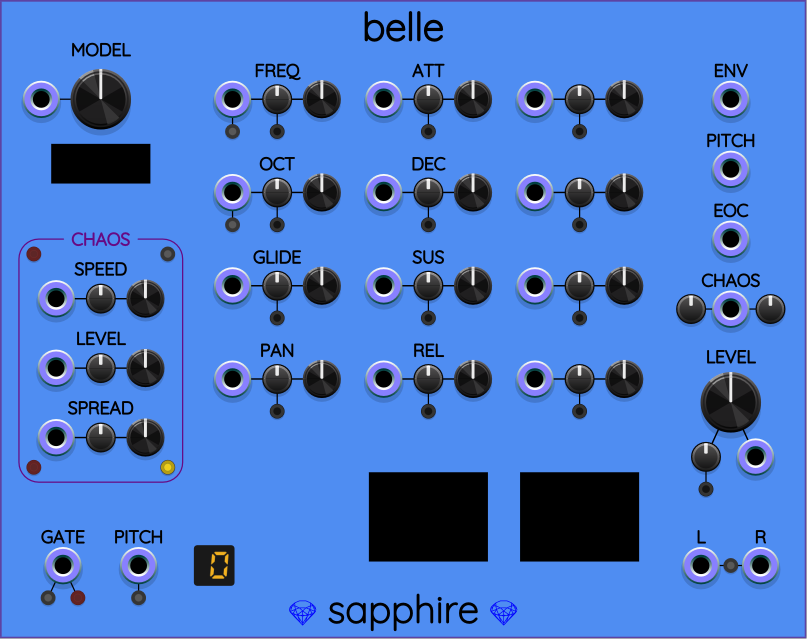
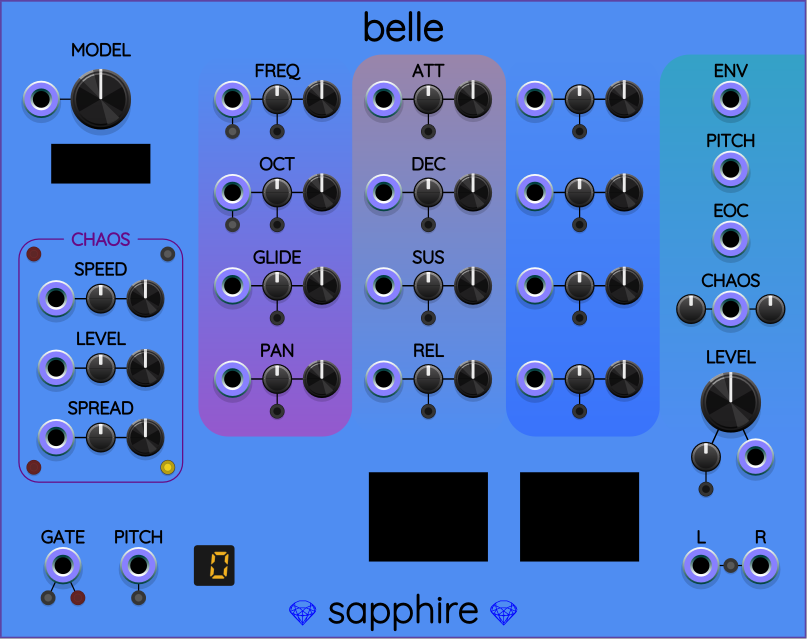
Belle: minor tweaks to artwork gradients.

Changed region(s): [[0.2478, 0.0595, 0.6506, 0.6839], [0.8055, 0.0595, 1.0, 0.3568], [0.6196, 0.6244, 0.8055, 0.6839]]

diff --git a/util/make_sapphire_svg.py b/util/make_sapphire_svg.py
@@ -2828,13 +2828,12 @@ def BelleEngineArtwork(defs:Element, pl:Element) -> int:
     x1 = 40.0
     x2 = 71.0
     y1 = 11.0
-    y2 = 90.0
+    y2 = 88.0
     radius = 6.0
     dx = x2 - x1
     dy = y2 - y1
     x3 = x2 + dx
     x4 = x3 + dx
-    x5 = x4 + dx
 
     defs.append(LinearGradient('gradient_col1', 0.0, y1, 0.0, y2, SAPPHIRE_PANEL_COLOR, SAPPHIRE_PURPLE_COLOR))
     art.append(RectangularBubble(x1, y1, dx, dy, radius, GradientStyle('gradient_col1', 0.7), 'bubble_col1'))
@@ -2845,8 +2844,8 @@ def BelleEngineArtwork(defs:Element, pl:Element) -> int:
     defs.append(LinearGradient('gradient_col3', 0.0, y1, 0.0, y2, SAPPHIRE_PANEL_COLOR, SAPPHIRE_AZURE_COLOR))
     art.append(RectangularBubble(x3, y1, dx, dy, radius, GradientStyle('gradient_col3', 0.7), 'bubble_col3'))
 
-    defs.append(LinearGradient('gradient_col4', 0.0, y1, x5, y2, SAPPHIRE_TEAL_COLOR, SAPPHIRE_PANEL_COLOR))
-    art.append(RectangularBubble(x4, y1, dx, dy, radius, GradientStyle('gradient_col4', 1.0), 'bubble_col4'))
+    defs.append(LinearGradient('gradient_col4', 0.0, y1, 0.0, y2, SAPPHIRE_TEAL_COLOR, SAPPHIRE_PANEL_COLOR))
+    art.append(RectangularBubble(x4, y1, dx+radius, dy, radius, GradientStyle('gradient_col4', 0.7), 'bubble_col4'))
 
     pl.append(art)
     return 0
